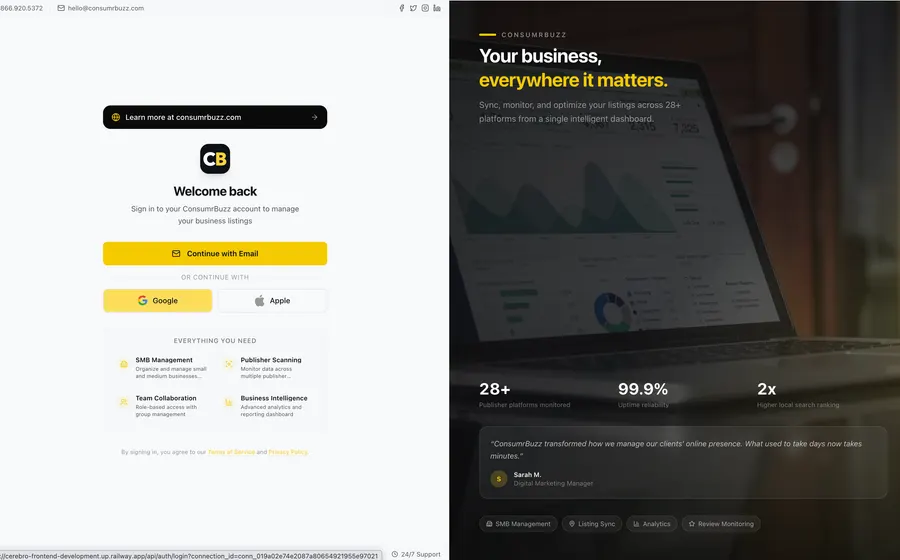
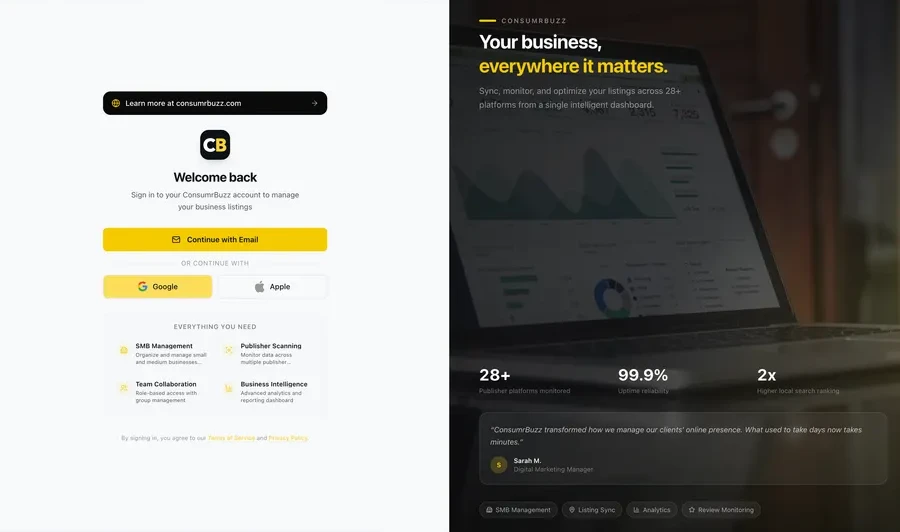
fix(work): crop the internal URL out of the ConsumrBuzz screenshot
The lead screenshot carried a browser status bar showing an internal
staging URL with a connection id, plus a strip of browser chrome at the
top. Crop both (900x560 -> 900x532) until a proper product capture
replaces it.

Also give every featured screenshot specific alt text from cv.json
(imageAlt) instead of a generic "product screenshot", and make the lead
project title a link like the other projects.

diff --git a/src/cv.d.ts b/src/cv.d.ts
@@ -137,6 +137,7 @@ type Language =
 interface Projects {
   name: string;
   image?: string;
+  imageAlt?: string;
   isActive: boolean;
   description: string;
   highlights: Highlight;
